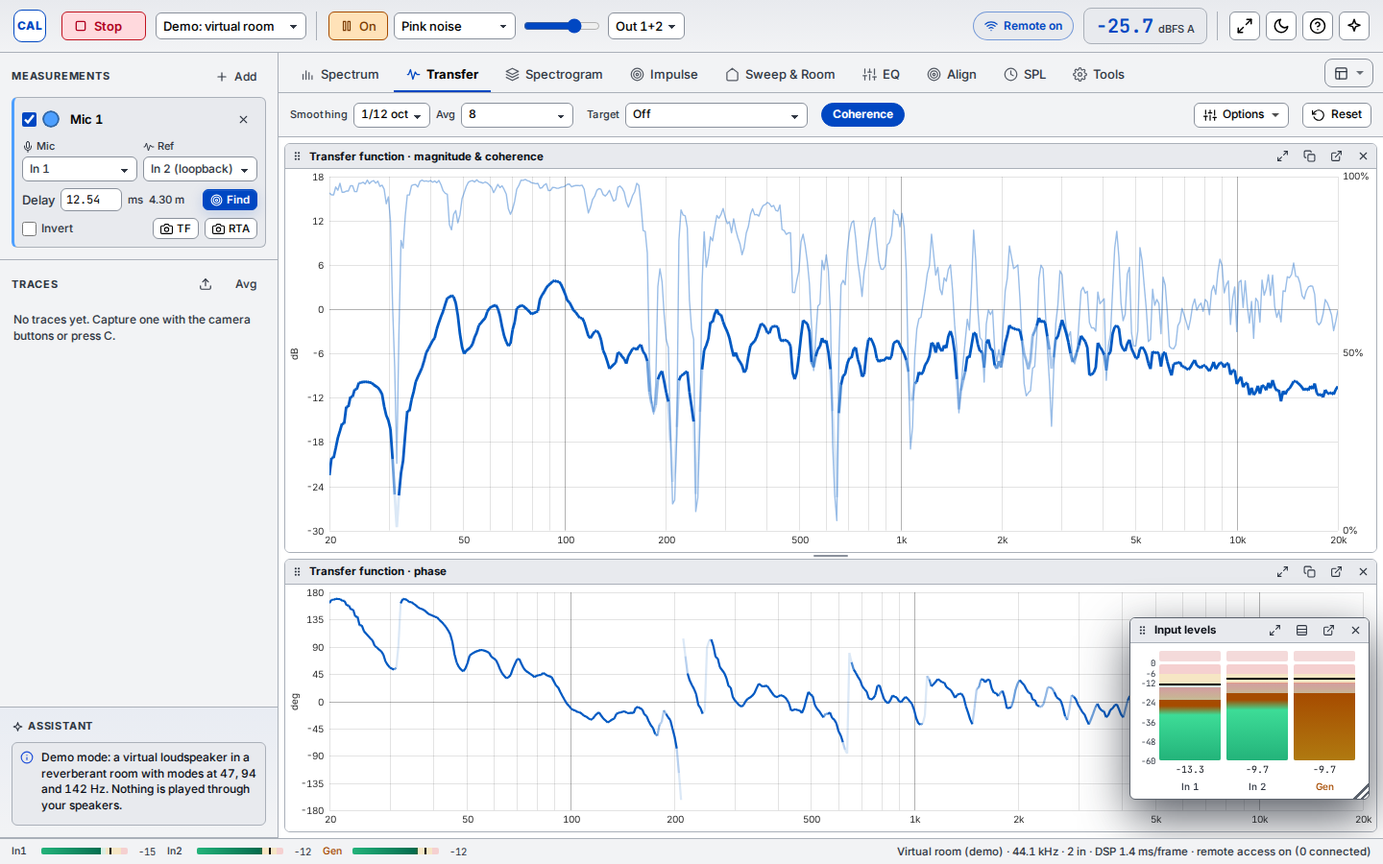
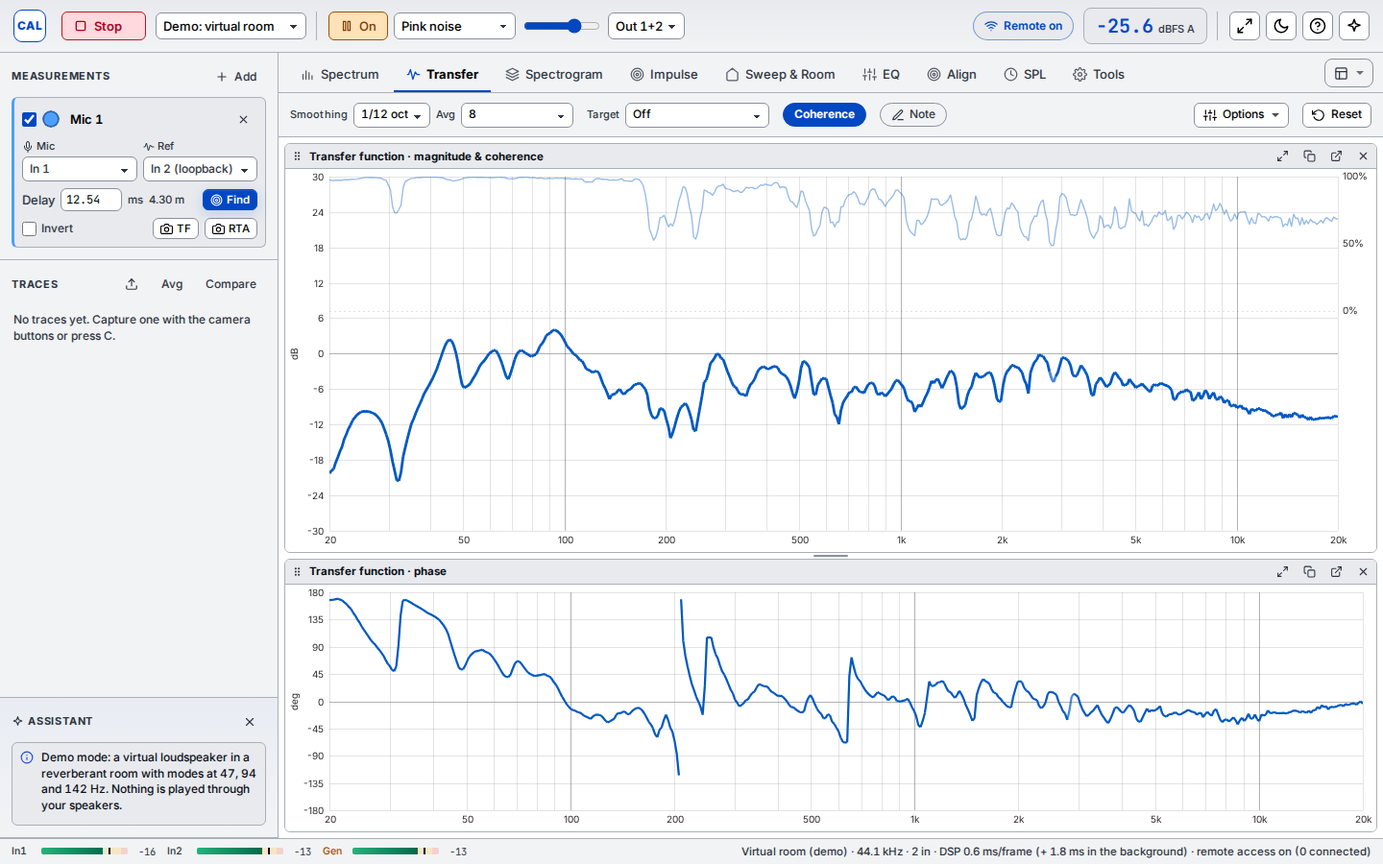
2.0 preparation: tidier Spectrum options and Display settings, version in Help, 2.0 release notes and README, new screenshots, version 2.0.0-rc.1
Claude-Session: https://claude.ai/code/session_01DUSAq299NMiKPL5ASP4zkU

diff --git a/src/views/spectrum.ts b/src/views/spectrum.ts
@@ -13,7 +13,7 @@ import { rangePeaks, type RangePeak } from '../dsp/peaks';
 
 /** Colours offered for the average curve ('auto': white at night, black by day). */
 export const AVG_COLORS = [
-  { value: 'auto', label: 'Auto (white, or each mic’s colour)' },
+  { value: 'auto', label: 'Auto' },
   { value: '#ffd60a', label: 'Yellow' },
   { value: '#ff9f1c', label: 'Orange' },
   { value: '#ff4d6d', label: 'Red' },
@@ -136,18 +136,7 @@ export class SpectrumView extends DockedView implements View {
         h('div', { class: 'opt-ctl' }, this.panelChip('rta', 'Spectrum', 'spectrum'), this.panelChip('spl', 'SPL meter', 'SPL meter'), this.panelChip('levels', 'Input levels', 'input level')),
         optHead('Analysis'),
         optRow('FFT size', select([4096, 8192, 16384, 32768, 65536].map((n) => ({ value: n, label: `${n / 1024}k` })), s.rtaFft, (v) => { s.rtaFft = v; app.applyAnalysisSettings(); }, { dataset: { setting: 'rtaFft' }, title: 'Longer FFTs resolve lower frequencies but react more slowly' })),
-        optRow(
-          'Motion',
-          select(
-            [
-              { value: 'smooth' as const, label: 'Smooth (glide)' },
-              { value: 'stepped' as const, label: 'Stepped' },
-            ],
-            s.rtaMotion,
-            (v) => { s.rtaMotion = v; app.save(); },
-            { dataset: { setting: 'rtaMotion' }, title: 'Smooth: the curve glides from one spectrum to the next (≈ 40 ms behind). Stepped: it jumps to each new spectrum.' },
-          ),
-        ),
+        optRow('Averaging', select(AVG_OPTIONS, s.rtaAveraging, (v) => { s.rtaAveraging = v; app.applyAnalysisSettings(); }, { dataset: { setting: 'rtaAveraging' }, title: 'More averaging steadies the curve but makes it slower to follow changes' }), this.avgHint),
         optRow(
           'Updates',
           select(
@@ -160,8 +149,19 @@ export class SpectrumView extends DockedView implements View {
             { dataset: { setting: 'rtaUpdates' }, title: 'New spectra per second: 50 follows changes faster and moves more smoothly, with about twice the processing. The averaging time stays the same.' },
           ),
         ),
-        optRow('Averaging', select(AVG_OPTIONS, s.rtaAveraging, (v) => { s.rtaAveraging = v; app.applyAnalysisSettings(); }, { dataset: { setting: 'rtaAveraging' }, title: 'More averaging steadies the curve but makes it slower to follow changes' }), this.avgHint),
-        optHead('Colours'),
+        optHead('Display'),
+        optRow(
+          'Motion',
+          select(
+            [
+              { value: 'smooth' as const, label: 'Smooth (glide)' },
+              { value: 'stepped' as const, label: 'Stepped' },
+            ],
+            s.rtaMotion,
+            (v) => { s.rtaMotion = v; app.save(); },
+            { dataset: { setting: 'rtaMotion' }, title: 'Smooth: the curve glides from one spectrum to the next (≈ 40 ms behind). Stepped: it jumps to each new spectrum.' },
+          ),
+        ),
         optRow('Trace', colourChoice(s.rtaTraceColor, (v) => { s.rtaTraceColor = v; app.save(); }, { auto: 'Measurement colour', label: 'Spectrum trace colour' })),
         optRow('Fill', colourChoice(s.rtaFillColor, (v) => { s.rtaFillColor = v; app.save(); }, { auto: 'Same as the trace', none: true, label: 'Spectrum fill colour' })),
         optRow(
@@ -195,7 +195,6 @@ export class SpectrumView extends DockedView implements View {
             { title: 'Smoothing of the average curve', dataset: { setting: 'rtaAverageSmoothing' } },
           ),
         ),
-        optRow('Show', this.settingChip('avgCurveShow', 'Visible', 'Show or hide the average curve (it keeps averaging while hidden)')),
         optRow(
           'Colour',
           select(
@@ -205,7 +204,7 @@ export class SpectrumView extends DockedView implements View {
               s.avgCurveColor = v;
               app.save();
             },
-            { title: 'Colour of the average curve', dataset: { setting: 'avgCurveColor' } },
+            { title: 'Colour of the average curve (Auto: white, or with several mics each mic’s own colour, lightened)', dataset: { setting: 'avgCurveColor' } },
           ),
         ),
         optRow(
@@ -220,15 +219,15 @@ export class SpectrumView extends DockedView implements View {
             { title: 'Line width of the average curve', dataset: { setting: 'avgCurveWidth' } },
           ),
         ),
-        optRow('', h('button', { class: 'btn small', title: 'Start only the average curve again', onclick: () => app.measurements.forEach((m) => m.resetAverage()) }, icon('reset', 14), 'Restart average curve')),
-        optHead('Target & mics'),
+        optRow('', this.settingChip('avgCurveShow', 'Visible', 'Show or hide the average curve (it keeps averaging while hidden)'), h('button', { class: 'btn small', title: 'Start only the average curve again', onclick: () => app.measurements.forEach((m) => m.resetAverage()) }, icon('reset', 14), 'Restart average curve')),
+        optHead('Overlays'),
         optRow('Target tolerance', this.target.toleranceControl()),
         optRow('Several mics', micAverageControl(app)),
-        optRow('Sweeps', this.settingChip('rtaShowSweeps', 'Show saved sweeps', 'Show saved sweep traces here too, levelled to the live spectrum: a sweep measures the shape of the response, not its level')),
+        optRow('Saved sweeps', this.settingChip('rtaShowSweeps', 'Show', 'Show saved sweep traces here too, levelled to the live spectrum: a sweep measures the shape of the response, not its level')),
         optHead('Layout'),
         h('div', { class: 'opt-ctl' }, this.resetLayoutButton()),
       ],
-      { title: 'Spectrum options: panels, FFT, averaging, curve smoothing, tolerance, several mics', id: 'spectrum' },
+      { title: 'Spectrum options: panels, analysis, display, average curve, overlays', id: 'spectrum' },
     );
     return h(
       'div',

diff --git a/src/ui/dialogs.ts b/src/ui/dialogs.ts
@@ -160,7 +160,7 @@ export function showHelp(app: App): void {
       ),
       h('div', {}, h('h4', {}, 'Keyboard'), h('table', { class: 'keys' }, ...keys.map(([k, d]) => h('tr', {}, h('td', {}, h('kbd', {}, k)), h('td', {}, d))))),
     ),
-    h('p', { class: 'dim small' }, `CAL Audio Analyzer runs entirely in your browser. Audio never leaves this device. ${app.engine.running ? `Running at ${app.fs} Hz.` : ''}`),
+    h('p', { class: 'dim small' }, `CAL Audio Analyzer ${__APP_VERSION__} · your audio stays on your own devices${app.engine.running ? ` · running at ${app.fs / 1000} kHz` : ''}.`),
   );
   modal('Help', body);
 }

diff --git a/src/styles/app.css b/src/styles/app.css
@@ -3627,3 +3627,12 @@ html.compact .cmp-arrow {
 .ref-card-body > * + * {
   margin-top: 10px;
 }
+/* Display & performance: labels and controls in two aligned columns */
+.perf-card > .row {
+  display: grid;
+  grid-template-columns: 130px minmax(0, 1fr);
+  justify-items: start;
+}
+.perf-card > .row select {
+  max-width: 100%;
+}

diff --git a/docs/beta-notes.md b/docs/beta-notes.md
@@ -1,15 +1,15 @@
-**Beta for testing.** This is a pre-release with new features that may change or be removed before the next release. The stable version stays [the latest release](https://github.com/Audbol/CAL-Audio-Analyzer/releases/latest). Settings are shared with the stable version, so you can switch back at any time.
+**Release candidate for version 2.0.** Please try it on your own systems before 2.0 is released: everything below is in it, and only fixes are planned from here. The stable version stays [the latest release](https://github.com/Audbol/CAL-Audio-Analyzer/releases/latest). Settings are shared with it, so you can switch back at any time.
 
 ## Download
 
 | System | File |
 | --- | --- |
-| **Windows 10/11** – installer | `CAL-Audio-Analyzer-1.11.0-beta.5-win-x64.exe` |
-| **Windows 10/11** – portable (no install) | `CAL-Audio-Analyzer-1.11.0-beta.5-portable.exe` |
-| **macOS** – Apple Silicon (M1–M4) | `CAL-Audio-Analyzer-1.11.0-beta.5-mac-arm64.dmg` |
-| **macOS** – Intel | `CAL-Audio-Analyzer-1.11.0-beta.5-mac-x64.dmg` |
-| **Linux** – x64 | `CAL-Audio-Analyzer-1.11.0-beta.5-linux-x86_64.AppImage` |
-| **Linux** – ARM64 (e.g. Raspberry Pi 5) | `CAL-Audio-Analyzer-1.11.0-beta.5-linux-arm64.AppImage` |
+| **Windows 10/11** – installer | `CAL-Audio-Analyzer-2.0.0-rc.1-win-x64.exe` |
+| **Windows 10/11** – portable (no install) | `CAL-Audio-Analyzer-2.0.0-rc.1-portable.exe` |
+| **macOS** – Apple Silicon (M1–M4) | `CAL-Audio-Analyzer-2.0.0-rc.1-mac-arm64.dmg` |
+| **macOS** – Intel | `CAL-Audio-Analyzer-2.0.0-rc.1-mac-x64.dmg` |
+| **Linux** – x64 | `CAL-Audio-Analyzer-2.0.0-rc.1-linux-x86_64.AppImage` |
+| **Linux** – ARM64 (e.g. Raspberry Pi 5) | `CAL-Audio-Analyzer-2.0.0-rc.1-linux-arm64.AppImage` |
 
 The builds are not code-signed yet:
 
@@ -19,50 +19,32 @@ The builds are not code-signed yet:
 
 On first launch, choose **Explore with the demo room** to try every feature without hardware.
 
-## New in beta 5
+## What's new in 2.0
 
-Smoother metering:
+**A faster start for transfer-function work.** The app now opens on the transfer function at 1/12 octave, with coherence drawn in its own band across the top of the magnitude graph and phase below. The delay is found by itself the first time the coherence is low, the level meters live in the status bar, and the Spectrum shows a 1/6-octave line with a 10-second average curve and its real peaks labelled.
 
-- **Level meters at the full screen rate:** the input and generator meters (status bar and the *Input levels* panel) now move on every frame with meter ballistics: they rise at once, fall back smoothly at 20 dB per second, and hold the highest peak for 1.5 s. A short peak between two frames is never missed.
-- **The spectrum glides:** a new spectrum arrives 25 times a second; the curve now glides from one to the next on every screen refresh instead of jumping (about 40 ms behind). *Spectrum → Options → Motion* switches back to *Stepped*. Remote devices profit most: the host's spectra reach them 10–25 times a second.
-- **50 spectra per second:** *Spectrum → Options → Updates* computes twice as many spectra, for a display that follows changes faster, at about twice the processing. The averaging time stays the same.
-- **Analysis in a background thread:** the spectrum and transfer function are now computed in a separate thread beside the drawing, so neither waits for the other (fewer hiccups when you resize or detach panels or build a report). In the demo the main thread's work per frame halves. *Tools → Display & performance → Analysis* switches back to the main thread; if a computer can't run the background thread, the app falls back by itself. The status bar shows the time spent in each.
+### Measure
+- **Group delay:** *Transfer → Options → Panels → Group delay* shows how late each frequency arrives, in milliseconds (a sub behind the mains, a crossover's delay), weighted by energy and coherence so dips and noise don't hide the real delay.
+- **Measure at several positions:** *Sweep & Room → Positions* runs one sweep per mic position, tells you where to move the mic in between, and saves the spatial average as a trace for the EQ tab. It works from a phone or tablet too.
+- **Room diagnosis:** after a sweep, *Diagnosis* separates room modes, speaker-boundary interference, reflections and modal nulls, says how sure it is and what to do, and marks them on the graphs.
+- **Sweeps on the Spectrum:** saved sweeps also show on the Spectrum, levelled to the live curve.
+- **Reference switch:** *Tools → Setup → Reference signal* switches every measurement between the generator and a loopback input.
 
-## New in beta 4
+### Tune and document
+- **Compare before / after:** *Compare* above the Traces list puts two traces on one graph with the change between them and a score against the target, such as "±4.1 dB → ±1.8 dB RMS from 40 Hz to 8 kHz (56 % closer to the target)". It can be a page of the report.
+- **Notes on graphs:** drop labelled flags on the Spectrum, Transfer and sweep graphs. They are saved with the session, shared with remote devices, and drawn on and listed in the report.
+- **Spectrum peaks:** the highest real peak in the low, mid and high ranges is labelled.
+- **Several mics:** each mic's average curve has its own colour and dash pattern.
 
-- **Group delay:** *Transfer → Options → Panels → Group delay* adds a graph of how late each frequency arrives, in milliseconds, for example a sub 10 ms behind the mains, or the extra delay of a crossover. It is smoothed over 1/6 octave and weighted by energy and coherence, so dips and noise don't hide the real delay.
-- **Measure at several positions:** *Sweep & Room → Positions* (3–8) runs one sweep per mic position. Between sweeps the app tells you where to move the mic, and at the end it saves the spatial average as a trace for the EQ tab (each position is kept as a hidden trace). You can finish early after two positions, and it works from a remote device too.
-- **Compare before / after:** *Compare* above the Traces list puts two traces on one graph with the change between them, and scores each against a target: RMS deviation, share within the tolerance and the worst point, for example "±4.1 dB → ±1.8 dB RMS from 40 Hz to 8 kHz (56 % closer to the target)". *Match levels* compares shape only. The comparison can be a page of the report.
-- **Notes on graphs:** *Note* in the Spectrum, Transfer and Sweep & Room toolbars, then click the graph to drop a labelled flag ("desk reflection", "sub moved 20 cm"). Click a flag to change or delete it. Notes are saved with the session, appear on every connected device, and are drawn on the report's graphs and listed in it.
+### Smoother and faster
+- **Background analysis:** the spectrum, transfer function and impulse response are computed in a separate thread, so drawing never waits for the maths. The main thread's work per frame is less than half of what it was.
+- **Meters at the screen's rate:** the level meters move on every frame with proper ballistics (instant rise, 20 dB/s fall, 1.5 s peak hold) and colours at fixed levels.
+- **Gliding spectrum:** the curve glides from one spectrum to the next (*Options → Motion*), with an optional 50 spectra per second (*Options → Updates*). *Averaging: None* is truly instant, and the panel shows how long each averaging setting takes.
+- **Lighter start:** the report and the QR code load when first used; graphs cache their grid and labels.
 
-## New in beta 3
-
-- **Room modes in Tools → Calculators:** the room mode calculator is back under *Tools → Calculators* instead of its own tab. It keeps the room's dimensions and shows the last sweep against the predicted axial modes.
-- **Averaging "None" is instant:** on the Spectrum, *Averaging: None* now shows each new spectrum as it is, with no smoothing between frames. *Spectrum → Options → Averaging* shows how long each setting takes to follow a change (for example "≈ 0.7 s" for 4 with a 16k FFT at 48 kHz). The screen still updates just as often; more averaging only makes the curve steadier and slower to follow changes.
-- **Hide the Assistant:** the × on the Assistant in the sidebar hides it, and the traces get the space. *Tools → Display & performance → Assistant* shows it again.
-- **Sweeps on the Spectrum:** a sweep saved with *Sweep & Room → Save FR as trace* now shows on the Spectrum as well as on Transfer. A sweep measures the shape of the response, not a sound level, so on the Spectrum it is moved to sit on the live curve (same average level from 250 Hz to 4 kHz). *Spectrum → Options → Sweeps* turns this off, and the eye in the trace list hides a sweep everywhere.
-
-## New in beta 2
-
-- **Several mics, several average curves:** with more than one mic, each average curve is drawn in its mic's colour (lightened, so it stands apart from the live trace) and with its own dash pattern (solid, long dash, dots, dash-dot). A single average curve stays white.
-- **Reference toggle:** *Tools → Setup → Reference signal* switches every measurement between the internal generator reference and a loopback input (which input is remembered). The delay is measured again after switching.
-- **Tidier Tools:** Tools is split into sections (Setup, Session & report, Remote access, Display & performance, Calculators, Data & reset), one at a time. The remote-access badge and *SPL → Calibrate…* open the right section.
-- **Room modes:** the room's dimensions are now kept, and the last sweep is shown against the room's predicted axial modes. With the dimensions entered, the room diagnosis names the predicted mode a measured one matches.
-- **SPL readout scales:** the SPL tab's sound level numbers grow and shrink with their panel when you drag a splitter, float, resize or detach it. The fourth reading shows the other time weighting (Slow when the readout is Fast).
-
-## New in beta 1
-
-- **Spectrum colours:** *Spectrum → Options → Colours* sets the colour of the trace (the line, or the tops of the bars) and of the fill (the area under the line, or the bodies of the bars): the measurement's own colour, a preset or any colour, and the fill opacity. The fill can also be turned off.
-- **Detachable SPL panels:** the SPL tab's sound level readout, 2-minute history and noise log are now panels, like on the Spectrum tab. Rearrange and resize them, float one over the others, or detach it into its own window, for example the big level readout on a second screen. *Options* on the SPL tab shows or hides each panel and resets the layout. The history and the noise log are now shown together instead of as sub-tabs.
-- **Room diagnosis:** after a sweep, *Sweep & Room → Diagnosis* explains what shapes the low and mid response, because each cause needs a different fix:
-  - **Room modes:** narrow low-frequency peaks, confirmed when they keep ringing, with the room dimension that would cause them.
-  - **Speaker-boundary interference (SBIR):** a strong early reflection from a nearby wall, floor or desk that cancels a low-mid band, with the distance to that boundary.
-  - **Reflections:** distinct arrivals after the direct sound, with delay, extra path and the comb-filter notches they cause.
-  - **Modal nulls:** narrow dips that depend on the position.
-
-  Each finding says how sure it is (likely or possible) and what to do, and is marked on the frequency response and the impulse response / ETC.
-- **Peak highlights:** the Spectrum tab marks the highest peak in the low (20–250 Hz), mid (250 Hz–4 kHz) and high (4–20 kHz) ranges, with its frequency and level, on the average curve when it is shown. A range without a real peak (for example a smooth roll-off) says "no peak". The *Peaks* button turns it off.
-
-## Feedback
-
-Tell us which of these to keep, change or drop. Each one is a separate change, so any of them can be removed on its own.
+### Look and layout
+- **Colours:** choose the Spectrum's trace and fill colours and the fill opacity.
+- **SPL tab:** the level readout, history and noise log are panels you can float or detach (for example the big readout on a second screen), and the numbers scale with their panel.
+- **Tools:** split into sections (Setup, Session & report, Remote access, Display & performance, Calculators, Data & reset); the room-mode calculator is under *Calculators*.
+- **Tidier menus:** the Spectrum options are grouped into Analysis, Display, Average curve and Overlays; empty graphs say what to do; the Assistant can be hidden.
+- **Fixes:** level meters showed warning colours at low levels; several toolbar, axis and dialog details.

diff --git a/README.md b/README.md
@@ -6,10 +6,10 @@ A professional, real-time **sound system and room acoustics analyzer** that runs
 
 New to the app? The **[user guide](docs/user-guide.md)** walks you through installing, connecting your equipment, calibrating microphones, tuning, alignment, room measurements, noise logging and remote access, in plain language with screenshots.
 
-![Transfer function: magnitude with coherence, phase, and level meters](docs/screenshot-live.png)
+![Transfer function: magnitude with coherence in a band across the top, and phase below](docs/screenshot-live.png)
 
 <table><tr>
-<td width="62%"><img src="docs/screenshot-bars.png" alt="Spectrum as third-octave bars with SPL and level meters"></td>
+<td width="62%"><img src="docs/screenshot-bars.png" alt="Spectrum as third-octave bars with the average curve, a house-curve target and the SPL meter"></td>
 <td width="38%"><img src="docs/screenshot-phone.png" alt="A phone connected as a remote display"></td>
 </tr><tr>
 <td>Real-time spectrum as a line or as octave bars, calibrated in dB SPL</td>
@@ -20,8 +20,8 @@ New to the app? The **[user guide](docs/user-guide.md)** walks you through insta
 
 | Area | What you get |
 | --- | --- |
-| **Dual-channel transfer function** | Multi-time-window FFT (32k → 1k, constant ~1/48-octave resolution; with *Bass resolution* High/Maximum, 64k/128k-equivalent windows below 90 Hz), magnitude, phase and coherence. Coherence blanking fades unreliable data. Averaging from none to 64 frames, or cumulative. Smoothing from 1/48 to 1/1 octave. |
-| **Delay finder** | GCC-PHAT cross-correlation with sub-sample refinement, confidence estimate and polarity detection. Converts to distance using the air temperature. |
+| **Dual-channel transfer function** | Multi-time-window FFT (32k → 1k, constant ~1/48-octave resolution; with *Bass resolution* High/Maximum, 64k/128k-equivalent windows below 90 Hz), magnitude, phase and coherence. Coherence (in its own band across the top of the magnitude graph) and coherence blanking, which fades unreliable data. **Group delay** panel (energy- and coherence-weighted). Averaging from none to 64 frames, or cumulative. Smoothing from 1/48 to 1/1 octave. |
+| **Delay finder** | GCC-PHAT cross-correlation with sub-sample refinement, confidence estimate and polarity detection. Converts to distance using the air temperature. Runs by itself the first time a transfer function shows low coherence with no delay set. |
 | **Internal or loopback reference** | Use the generator's own signal as the reference (works with any interface), or a hardware loopback for program-material measurements. |
 | **RTA / spectrum** | True fractional-octave band power (pink noise reads flat) or narrowband FFT with peak picking. FFT sizes 4k–64k, plus longer bass windows below 160 Hz (0.7 Hz or 0.4 Hz detail) that keep the mids and highs fast. Peak hold, dBFS or calibrated dB SPL. Draw it as a line or as 1/1–1/24-octave **bars** (**B**). An **average curve** (1 s to 30 s, or everything since restart, smoothed 1/12 to 1/1 octave with a natural bell-shaped window) shows the long-term tonal balance over the live RTA for tuning; hide it or set its colour and thickness. |
 | **Spectrogram** | Scrolling log-frequency spectrogram of any channel (frequency up the side, or across with the newest data at the top), with an adjustable or automatic colour range. |
@@ -31,6 +31,11 @@ New to the app? The **[user guide](docs/user-guide.md)** walks you through insta
 | **Target curves** | Draw a target (Flat, House, Tilt, X-curve, or any stored trace) over the Spectrum, the transfer function and the swept frequency response (Sweep & Room, with its own target choice), with a ±1/2/3/6 dB tolerance band. It levels itself to the measurement (coherence-weighted over 250 Hz–4 kHz), so you only tune the shape. |
 | **System alignment** | The **Align** tab aligns every part of the system to the mains: subs (best summation through the crossover: which side to delay, polarity, gain at the crossover, remaining cancellations), front and out fills and delay speakers (arrival across their overlap band, even 100+ ms away, plus an optional precedence so the sound stays on stage). Measure the mains and each part alone at the position where they meet; the result is a plan with the delay, polarity and level for every part, the predicted sum and phase tracking, and it goes into sessions and reports. |
 | **Several mics at once** | Show the live power average of all measurement mics on the Spectrum and Transfer tabs, with the spread between them as a shaded band (lowest to highest), or the average alone. The transfer-function average is coherence-weighted. |
+| **Room diagnosis** | After a sweep: room modes (with the room dimension that would cause them), speaker-boundary interference, reflections and modal nulls, each with a confidence and what to do, marked on the graphs. |
+| **Guided spatial average** | One sweep per mic position (3–8), with a prompt between positions; the power average is saved as a trace for the EQ tab. |
+| **Before / after compare** | Two traces on one graph with their difference and a score against the target (RMS deviation, share within tolerance, worst point); optionally a page of the report. |
+| **Notes on graphs** | Labelled flags on the Spectrum, Transfer and sweep graphs, saved with the session, shared with remote devices and listed in the report. |
+| **Smooth, fast metering** | Spectrum, transfer function and impulse response computed in a background thread; level meters with proper ballistics at the screen's rate; the spectrum glides between updates (25 or 50 spectra per second). |
 | **Waterfall** | Cumulative spectral decay from the sweep in 3-D: room modes (15–500 Hz over 400 ms) or full range (100 Hz–20 kHz over 20 ms). Ridges that reach far back are resonances that keep ringing. |
 | **Noise log** | Log Leq and Lmax per interval (1 s to 15 min, exact to the sample) with the third-octave spectrum from IEC 61260-style band filters, for hours. The weighting and input are locked while logging. Set a limit on the rolling Leq (e.g. 100 dB LAeq over 15 minutes): the level readout turns amber near it and red above it, with a warning. Export as CSV; the log is kept in sessions and reports. |
 | **Trace notes & photos** | Add a note and a photo of the mic position to any trace (a phone or tablet opens its camera). They are kept in sessions and shown in reports. |

diff --git a/docs/release-notes.md b/docs/release-notes.md
@@ -19,6 +19,36 @@ The builds are not code-signed yet:
 
 On first launch, choose **Explore with the demo room** to try every feature without hardware.
 
+## What's new in 2.0
+
+**A faster start for transfer-function work.** The app now opens on the transfer function at 1/12 octave, with coherence drawn in its own band across the top of the magnitude graph and phase below. The delay is found by itself the first time the coherence is low, the level meters live in the status bar, and the Spectrum shows a 1/6-octave line with a 10-second average curve and its real peaks labelled.
+
+### Measure
+- **Group delay:** *Transfer → Options → Panels → Group delay* shows how late each frequency arrives, in milliseconds (a sub behind the mains, a crossover's delay), weighted by energy and coherence so dips and noise don't hide the real delay.
+- **Measure at several positions:** *Sweep & Room → Positions* runs one sweep per mic position, tells you where to move the mic in between, and saves the spatial average as a trace for the EQ tab. It works from a phone or tablet too.
+- **Room diagnosis:** after a sweep, *Diagnosis* separates room modes, speaker-boundary interference, reflections and modal nulls, says how sure it is and what to do, and marks them on the graphs.
+- **Sweeps on the Spectrum:** saved sweeps also show on the Spectrum, levelled to the live curve.
+- **Reference switch:** *Tools → Setup → Reference signal* switches every measurement between the generator and a loopback input.
+
+### Tune and document
+- **Compare before / after:** *Compare* above the Traces list puts two traces on one graph with the change between them and a score against the target, such as "±4.1 dB → ±1.8 dB RMS from 40 Hz to 8 kHz (56 % closer to the target)". It can be a page of the report.
+- **Notes on graphs:** drop labelled flags on the Spectrum, Transfer and sweep graphs. They are saved with the session, shared with remote devices, and drawn on and listed in the report.
+- **Spectrum peaks:** the highest real peak in the low, mid and high ranges is labelled.
+- **Several mics:** each mic's average curve has its own colour and dash pattern.
+
+### Smoother and faster
+- **Background analysis:** the spectrum, transfer function and impulse response are computed in a separate thread, so drawing never waits for the maths. The main thread's work per frame is less than half of what it was.
+- **Meters at the screen's rate:** the level meters move on every frame with proper ballistics (instant rise, 20 dB/s fall, 1.5 s peak hold) and colours at fixed levels.
+- **Gliding spectrum:** the curve glides from one spectrum to the next (*Options → Motion*), with an optional 50 spectra per second (*Options → Updates*). *Averaging: None* is truly instant, and the panel shows how long each averaging setting takes.
+- **Lighter start:** the report and the QR code load when first used; graphs cache their grid and labels.
+
+### Look and layout
+- **Colours:** choose the Spectrum's trace and fill colours and the fill opacity.
+- **SPL tab:** the level readout, history and noise log are panels you can float or detach (for example the big readout on a second screen), and the numbers scale with their panel.
+- **Tools:** split into sections (Setup, Session & report, Remote access, Display & performance, Calculators, Data & reset); the room-mode calculator is under *Calculators*.
+- **Tidier menus:** the Spectrum options are grouped into Analysis, Display, Average curve and Overlays; empty graphs say what to do; the Assistant can be hidden.
+- **Fixes:** level meters showed warning colours at low levels; several toolbar, axis and dialog details.
+
 ## What's new in 1.10.1
 
 - **User guide:** a complete, plain-language [user guide](https://github.com/Audbol/CAL-Audio-Analyzer/blob/HEAD/docs/user-guide.md) with screenshots, from installing to reports, with an accessibility section, keyboard shortcuts, troubleshooting and a glossary.
